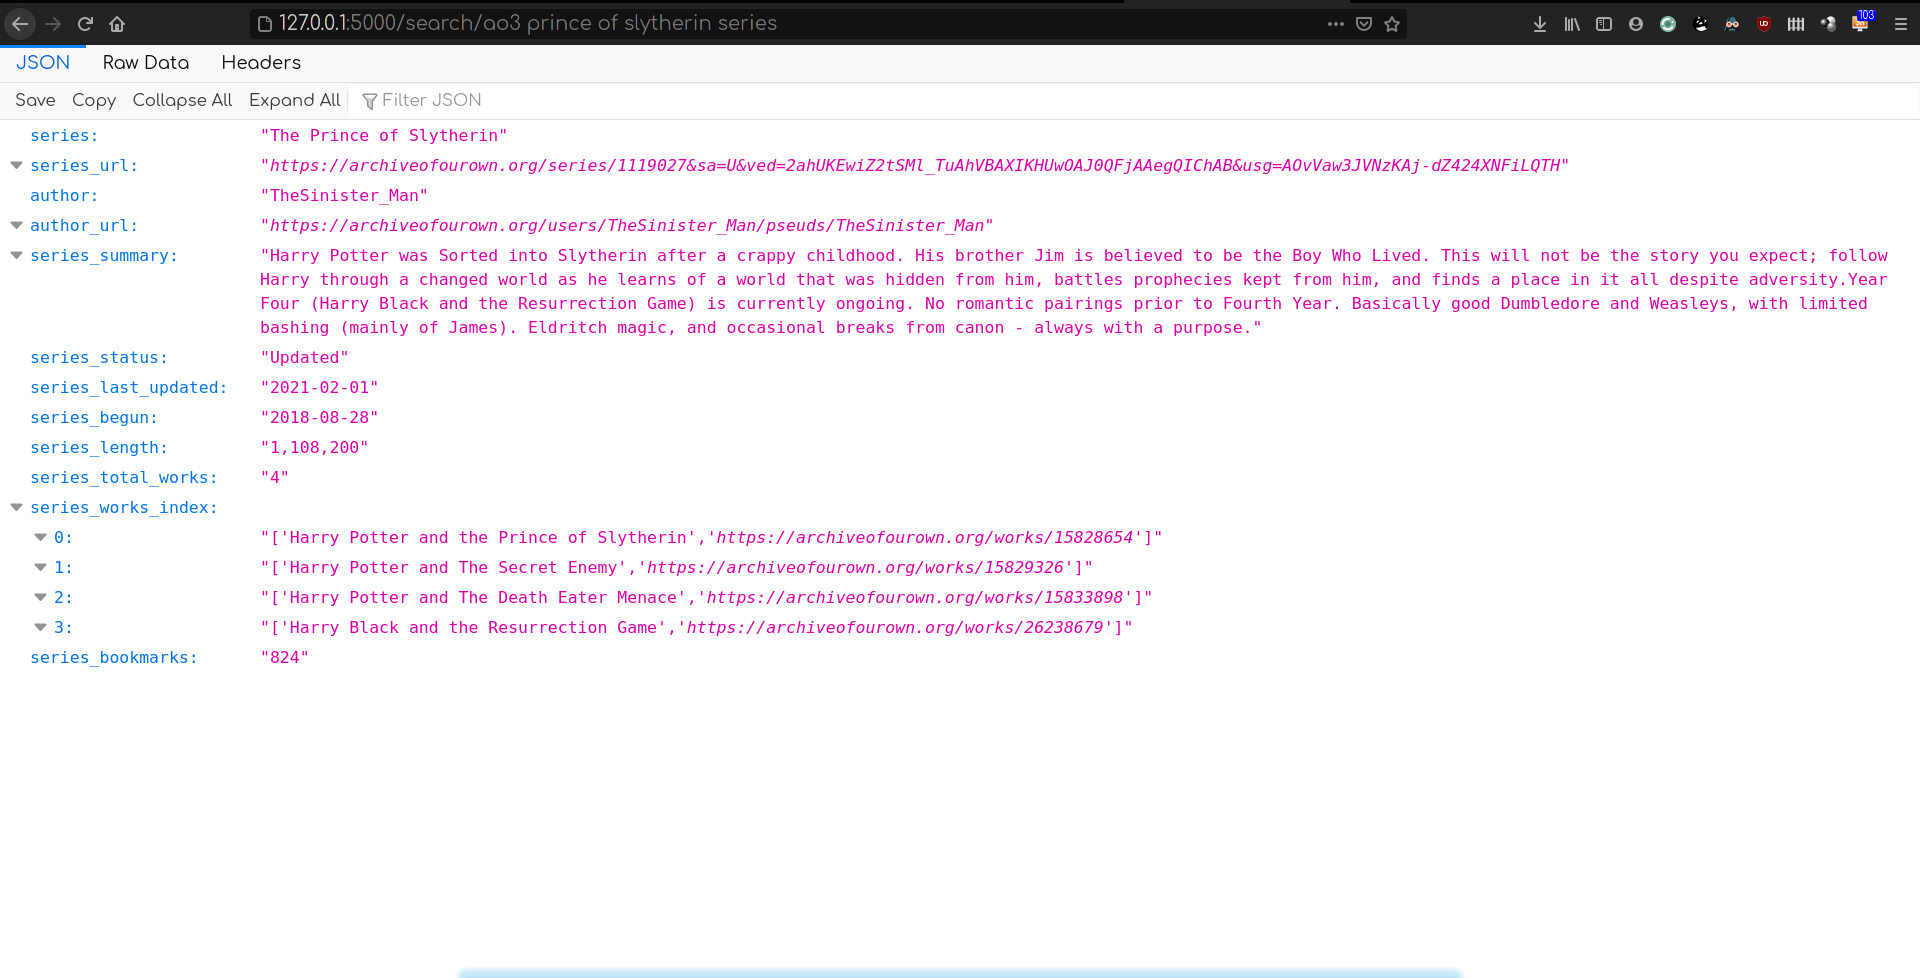
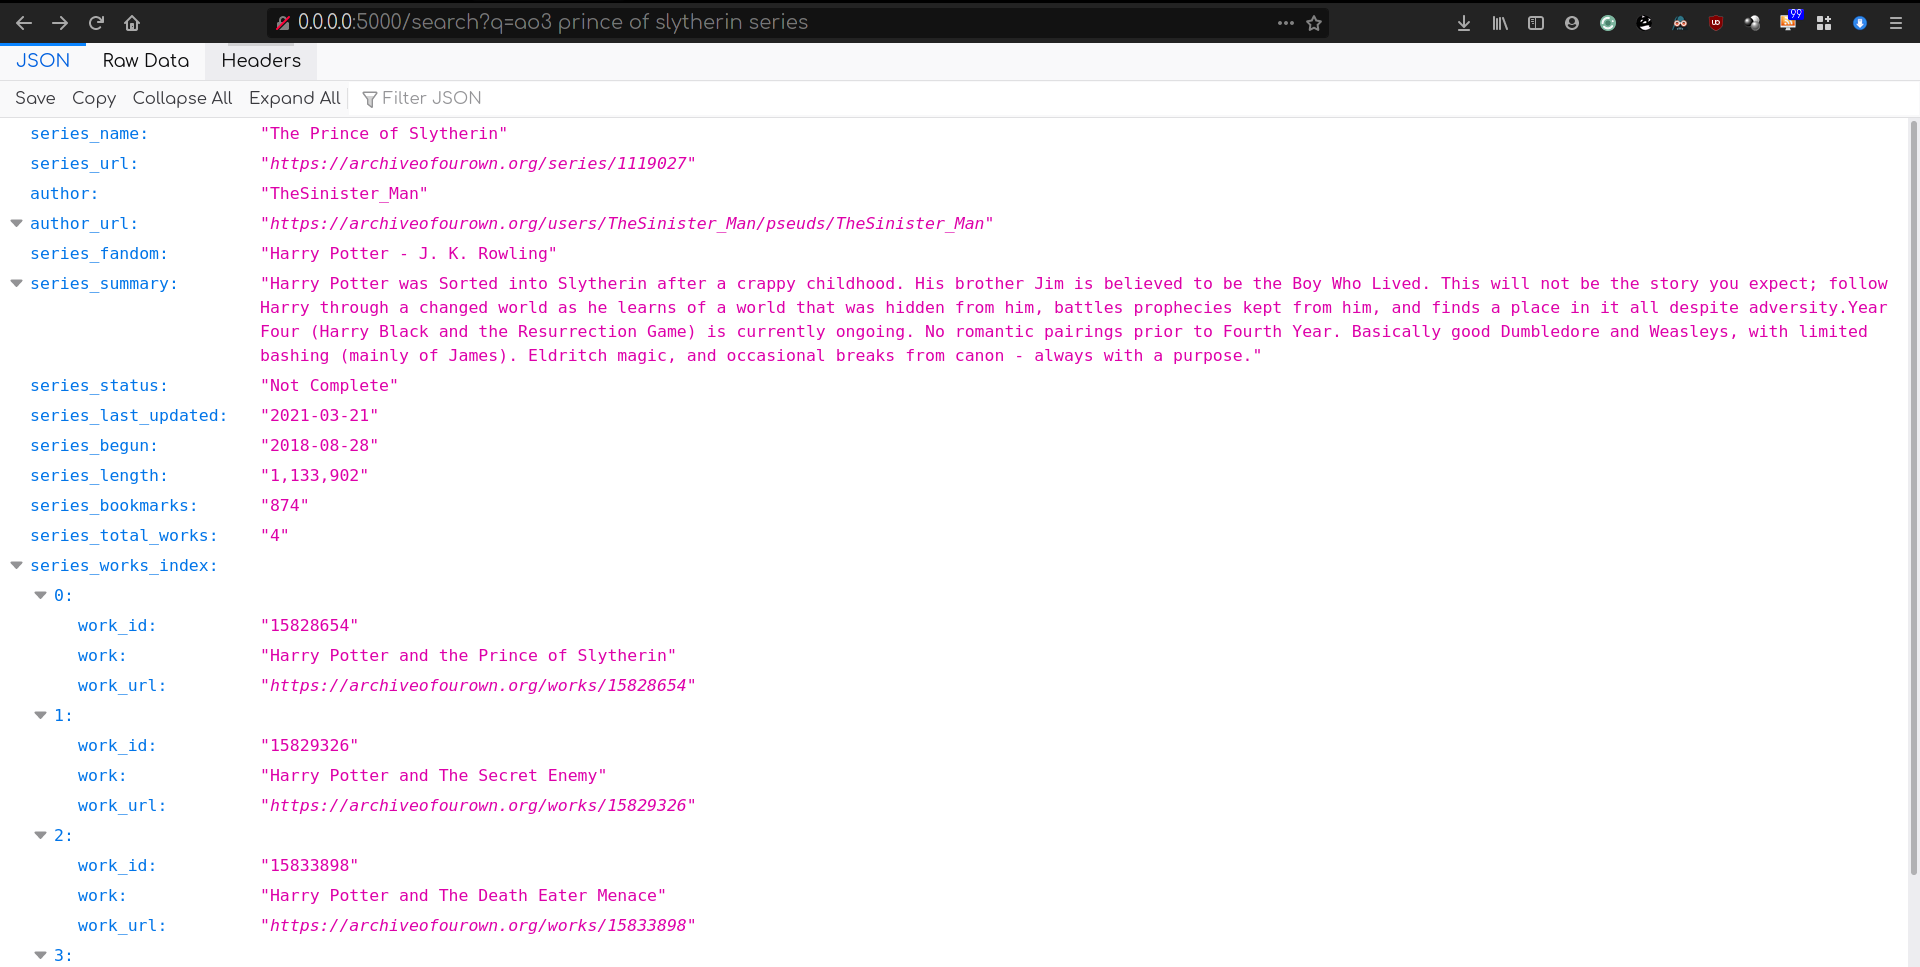
Changed API's search endpoint & added more metadata (#3)
Changed Search endpoint & added more metadata

main.py: Changed the search endpoint from /search/ to
         /search?=

find.py: Added search using url

metadata.py:
    - Added story_id & story_fandom to the ffn search
    - Added works_fandom to ao3 works search
    - Added series_fandom & series_works_index which
      includes the works_id, works_name and works_url

metadata_processing.py:
    - Added multiple authors to the author_name for ao3
      works & series

diff --git a/utils/metadata.py b/utils/metadata.py
@@ -7,11 +7,17 @@ from utils.search import get_ao3_url, get_ffn_url
 from utils.processing import ffn_process_details, ao3_convert_chapters_to_works
 from utils.metadata_processing import ao3_metadata_works, ao3_metadata_series
 
+URL_VALIDATE = r"(?:(?:https?|ftp)://)(?:\S+(?::\S*)?@)?(?:(?:[1-9]\d?|1\d\d|2[01]\d|22[0-3])(?:\.(?:1?\d{1,2}|2[0-4]\d|25[0-5])){2}(?:\.(?:[1-9]\d?|1\d\d|2[0-4]\d|25[0-4]))|(?:(?:[a-z\u00a1-\uffff0-9]+-?)*[a-z\u00a1-\uffff0-9]+)(?:\.(?:[a-z\u00a1-\uffff0-9]+-?)*[a-z\u00a1-\uffff0-9]+)*(?:\.(?:[a-z\u00a1-\uffff]{2,})))(?::\d{2,5})?(?:/[^\s]*)?"
+
 
 def ao3_metadata(query):
 
-    query = query.replace(" ", "+")
-    ao3_url = get_ao3_url(query)
+    if re.search(URL_VALIDATE, query) is None:
+        query = query.replace(" ", "+")
+        ao3_url = get_ao3_url(query)
+
+    else:  # clean the url if the query contains a url
+        ao3_url = re.search(URL_VALIDATE, query).group(0)
 
     if re.search(r"/chapters/\b", ao3_url) is not None:
 
@@ -43,7 +49,7 @@ def ao3_metadata(query):
         ao3_series_name, ao3_author_name, ao3_author_url, ao3_series_summary, \
             ao3_series_status, ao3_series_last_up, ao3_series_begun, \
             ao3_series_length, ao3_series_works_index, ao3_series_works, \
-            ao3_series_bookmarks = ao3_metadata_series(
+            ao3_series_bookmarks, ao3_series_fandom = ao3_metadata_series(
                 ao3_url)
 
         # remove everything after &sa from the url
@@ -56,14 +62,16 @@ def ao3_metadata(query):
             'series_url': ao3_url,
             'author': ao3_author_name,
             'author_url': ao3_author_url,
+            'series_fandom': ao3_series_fandom,
             'series_summary': ao3_series_summary,
             'series_status': ao3_series_status,
             'series_last_updated': ao3_series_last_up,
             'series_begun': ao3_series_begun,
             'series_length': ao3_series_length,
+            'series_bookmarks': ao3_series_bookmarks,
             'series_total_works': ao3_series_works,
-            'series_works_index': ao3_series_works_index,
-            'series_bookmarks': ao3_series_bookmarks
+            'series_works_index': ao3_series_works_index
+
         }
         return result
 
@@ -101,8 +109,16 @@ def ao3_metadata(query):
 
 def ffn_metadata(query):
 
-    query = query.replace(" ", "+")
-    ffn_url = get_ffn_url(query)
+    if re.search(URL_VALIDATE, query) is None:
+        if re.search(r"ao3\b", query):
+            embed = None
+            return embed
+        query = query.replace(" ", "+")
+        ffn_url = get_ffn_url(query)
+
+    else:  # clean the url if the query contains a url
+        ffn_url = re.search(
+            URL_VALIDATE, query).group(0)
 
     scraper = cloudscraper.CloudScraper(delay=3, browser={
         'browser': 'chrome',
@@ -129,12 +145,18 @@ def ffn_metadata(query):
             'style': 'margin-top:2px',
             'class': 'xcontrast_txt'})[0].string.strip()
 
+        ffn_story_fandom = ffn_soup.find(
+            'span', attrs={'class': 'lc-left'}).find(
+            'a', attrs={'class': 'xcontrast_txt'}).findNext('a').text
+
         ffn_story_status, ffn_story_last_up, ffn_story_published, \
             ffn_story_length, ffn_story_chapters, ffn_story_reviews, \
             ffn_story_favs, ffn_story_follows, ffn_story_rating, \
             ffn_story_lang, ffn_story_genre, ffn_story_characters = ffn_process_details(
                 ffn_soup)
 
+        ffn_story_id = re.search(r"\d+", ffn_url).group(0)
+        ffn_author_id = re.search(r"\d+", ffn_author_url).group(0)
         ffn_author_url = "https://www.fanfiction.net"+ffn_author_url
 
         # remove everything after &sa from the url
@@ -143,10 +165,13 @@ def ffn_metadata(query):
                 r"^(.*?)&", ffn_url).group(1)
 
         result = {
+            'story_id': ffn_story_id,
             'story_name': ffn_story_name,
             'story_url': ffn_url,
             'author': ffn_author_name,
+            'author_id': ffn_author_id,
             'author_url': ffn_author_url,
+            'story_fandom': ffn_story_fandom,
             'story_summary': ffn_story_summary,
             'story_rating': ffn_story_rating,
             'story_language': ffn_story_lang,

diff --git a/utils/metadata_processing.py b/utils/metadata_processing.py
@@ -147,12 +147,8 @@ def ao3_metadata_series(ao3_url):
         'div', attrs={'class': 'series-show region'}).find(
         'h2', attrs={'class': 'heading'}).contents[0]).strip()
 
-    ao3_author_name = (ao3_soup.find(
-        'div', attrs={'class': 'series-show region'}).find(
-        'a', attrs={'rel': 'author'}).contents[0]).strip()
-
-    ao3_author_url = ao3_soup.find('div', attrs={'class': 'series-show region'}).find(
-        'dt', text='Creator:').findNext('dd').find('a', href=True)['href']
+    ao3_author_name_list = ao3_soup.find(
+        'dl', attrs={'class': 'series meta group'}).find('dd').find_all('a')
 
     ao3_series_summary = (ao3_soup.find(
         'div', attrs={'class': 'series-show region'}).find(
@@ -164,12 +160,12 @@ def ao3_metadata_series(ao3_url):
             'dt', text='Complete:').findNext(
             'dd')).string.strip()
         if ao3_series_status == "No":
-            ao3_series_status = "Not Completed"
+            ao3_series_status = "Not Complete"
         elif ao3_series_status == "Yes":
             ao3_series_status = "Completed"
 
     except AttributeError:  # if story status not found
-        ao3_series_status = "Completed"
+        ao3_series_status = None
 
     try:
         ao3_series_last_up = ao3_soup.find(
@@ -200,8 +196,19 @@ def ao3_metadata_series(ao3_url):
         'dt', text='Bookmarks:').findNext(
         'dd').string.strip()
 
-    ao3_series_works_index = get_ao3_series_works_index(ao3_soup)
+    ao3_series_fandom, ao3_series_works_index = get_ao3_series_works_index(
+        ao3_soup)
+
+    ao3_author_name = []
+    for author in ao3_author_name_list:
+        ao3_author_name.append(author.string.strip())
+    ao3_author_name = ", ".join(ao3_author_name)
+
+    ao3_author_url = []
+    for author in ao3_author_name_list:
+        ao3_author_url.append(author['href'])
+    ao3_author_url = ", ".join(ao3_author_url)
 
     ao3_author_url = "https://archiveofourown.org"+ao3_author_url
 
-    return ao3_series_name, ao3_author_name, ao3_author_url, ao3_series_summary, ao3_series_status, ao3_series_last_up, ao3_series_begun, ao3_series_length, ao3_series_works_index, ao3_series_works, ao3_series_bookmarks
+    return ao3_series_name, ao3_author_name, ao3_author_url, ao3_series_summary, ao3_series_status, ao3_series_last_up, ao3_series_begun, ao3_series_length, ao3_series_works_index, ao3_series_works, ao3_series_bookmarks, ao3_series_fandom

diff --git a/find.py b/find.py
@@ -3,26 +3,43 @@ import time
 
 from utils.metadata import ao3_metadata, ffn_metadata
 
+URL_VALIDATE = r"(?:(?:https?|ftp)://)(?:\S+(?::\S*)?@)?(?:(?:[1-9]\d?|1\d\d|2[01]\d|22[0-3])(?:\.(?:1?\d{1,2}|2[0-4]\d|25[0-5])){2}(?:\.(?:[1-9]\d?|1\d\d|2[0-4]\d|25[0-4]))|(?:(?:[a-z\u00a1-\uffff0-9]+-?)*[a-z\u00a1-\uffff0-9]+)(?:\.(?:[a-z\u00a1-\uffff0-9]+-?)*[a-z\u00a1-\uffff0-9]+)*(?:\.(?:[a-z\u00a1-\uffff]{2,})))(?::\d{2,5})?(?:/[^\s]*)?"
 
-def find_fic(message):
+
+def find_fic(query):
     """ Command to search and find the fanfiction by scraping google
     """
-    msg = list(message.lower())
+    msg = list(query.lower())
 
     whitelist = ['a', 'b', 'c', 'd', 'e', 'f', 'g', 'h', 'i', 'j', 'k', 'l', 'm', 'n', 'o', 'p', 'q', 'r', 's', 't', 'u', 'é',
                  'v', 'w', 'x', 'y', 'z', '0', '1', '2', '3', '4', '5', '6', '7', '8', '9', '!', '?', ' ', '.', ';', ',', '"', "'", '`', '…', '*', '-', ':', '/', '%', '#']
 
     if all(elem in whitelist for elem in msg):  # if msg in whitelist
-        if re.search(r"^ao3\b", message.lower()) is not None:
-            msg = message.replace("ao3", "")
-            msg = message.replace("ffn", "")
+        if re.search(r"^ao3\b", query, re.IGNORECASE) is not None:
+            msg = query.replace("ao3", "")
+            msg = query.replace("ffn", "")
 
             time.sleep(2)
             result = ao3_metadata(msg)
             return result
 
-        elif re.search(r"^ffn\b", message.lower()) is not None:
-            msg = message.replace("ffn", "")
-            msg = message.replace("ao3", "")
+        elif re.search(r"^ffn\b", query, re.IGNORECASE) is not None:
+            msg = query.replace("ffn", "")
+            msg = query.replace("ao3", "")
             result = ffn_metadata(msg)
             return result
+
+        elif re.search(URL_VALIDATE, query) is not None:
+
+            url_found = (
+                re.search(URL_VALIDATE, query, re.IGNORECASE)).group(0)
+
+            if re.search(r"fanfiction.net\b",  url_found) is not None:
+                result = ffn_metadata(url_found)
+
+                return result
+
+            if re.search(r"archiveofourown.org\b", url_found) is not None:
+                result = ao3_metadata(url_found)
+
+                return result

diff --git a/utils/processing.py b/utils/processing.py
@@ -161,31 +161,47 @@ def ao3_convert_chapters_to_works(ao3_url):
 
 def get_ao3_series_works_index(ao3_soup):
     ao3_series_works_html = []
+    ao3_series_fandom_html = []
     ao3_series_works_index = []
 
     ao3_series_works_html_h4 = ao3_soup.findAll(
         'h4', attrs={'class': 'heading'})
 
+    ao3_series_works_html_h5 = ao3_soup.findAll(
+        'h5', attrs={'class': 'heading'})
+
     for i in ao3_series_works_html_h4:
         ao3_series_works_html.append(i)
-    ao3_series_works_html = ""
 
+    for i in ao3_series_works_html_h5:
+        ao3_series_fandom_html.append(i)
+
+    ao3_series_works_html = ""
     for i in ao3_series_works_html_h4:
         ao3_series_works_html += str(i)
 
-    ao3_series_works_index = {}
     soup_work = BeautifulSoup(ao3_series_works_html, 'html.parser')
-    cnt = 0
+
     for tag in soup_work.findAll('a', {'href': re.compile('/works/')}):
-        ao3_series_works_index.update(
-            {cnt:
-             [tag.text,
-              "https://archiveofourown.org" +
-              tag['href']
-              ]
-             }
+        work_id = re.search(r"\d+", tag['href']).group(0)
+
+        ao3_series_works_index.append({
+            'work_id': work_id,
+            'work': tag.text,
+            'work_url': "https://archiveofourown.org"+tag['href']
+        }
         )
 
-        cnt += 1
+    ao3_series_works_html_2 = ""
+    for i in ao3_series_works_html_h5:
+        ao3_series_works_html_2 += str(i)
 
-    return ao3_series_works_index
+    ao3_series_fandom = []
+    soup_work = BeautifulSoup(ao3_series_works_html_2, 'html.parser')
+    for tag in soup_work.findAll('a', {'class': 'tag'}):
+        ao3_series_fandom.append(tag.text)
+
+    ao3_series_fandom = set(ao3_series_fandom)
+    ao3_series_fandom = ", ".join(ao3_series_fandom)
+
+    return ao3_series_fandom, ao3_series_works_index

diff --git a/main.py b/main.py
@@ -17,21 +17,22 @@ app.add_middleware(
 
 @app.get("/")
 def index():
-    return {'API': 'Fanfiction Finder', 'Author': 'arzkar'}
+    return {
+        'API': 'Fanfiction Finder',
+        'Author': 'arzkar',
+        'Search Examples': [
+            "['For ao3 works searching:','https://fanfictionapi.repl.co/search?q=ao3 Harry Potter and the Prince of Slytherin']",
+            "['For ao3 series searching:','https://fanfictionapi.repl.co/search?q=ao3 Harry Potter and the Prince of Slytherin series']",
+            "['For ffn story searching','https://fanfictionapi.repl.co/search?q=ffn cadmean victory']",
+            "['To search using url','https://fanfictionapi.repl.co/search?q=https://www.fanfiction.net/s/11446957/1/A-Cadmean-Victory']"
+        ]
+
+    }
 
 
-@app.get("/search/")
-def search():
-    return {'Search Examples': [
-        "['For ao3 works searching:','https://fanfictionapi.repl.co/search/ao3 Harry Potter and the Prince of Slytherin']",
-        "['For ao3 series searching:','https://fanfictionapi.repl.co/search/ao3 Harry Potter and the Prince of Slytherin series']",
-        "['For ffn story searching','https://fanfictionapi.repl.co/search/ffn cadmean victory']"
-    ]}
-
-
-@app.get("/search/{fic_name}")
-def get_fic(fic_name: str):
-    res = find_fic(fic_name)
+@app.get("/search")
+def get_fic(q: str):
+    res = find_fic(q)
     return res
 
 

diff --git a/utils/search.py b/utils/search.py
@@ -2,6 +2,8 @@ import requests
 from bs4 import BeautifulSoup
 import re
 
+URL_VALIDATE = r"(?:(?:https?|ftp)://)(?:\S+(?::\S*)?@)?(?:(?:[1-9]\d?|1\d\d|2[01]\d|22[0-3])(?:\.(?:1?\d{1,2}|2[0-4]\d|25[0-5])){2}(?:\.(?:[1-9]\d?|1\d\d|2[0-4]\d|25[0-4]))|(?:(?:[a-z\u00a1-\uffff0-9]+-?)*[a-z\u00a1-\uffff0-9]+)(?:\.(?:[a-z\u00a1-\uffff0-9]+-?)*[a-z\u00a1-\uffff0-9]+)*(?:\.(?:[a-z\u00a1-\uffff]{2,})))(?::\d{2,5})?(?:/[^\s]*)?"
+
 
 def get_ao3_url(query):
     ao3_list = []
@@ -32,8 +34,7 @@ def get_ao3_url(query):
         return None
 
     # extract the https url from the the string since it contains /url?q=
-    ao3_url = re.search(
-        r"https?:\/\/(www/.)?[-a-zA-Z0-9@:%._\+~#=]{1,256}\.[a-zA-Z0-9()]{1,6}\b[-a-zA-Z0-9()@:%_\+.~#?&//=]*", ao3_list[0])
+    ao3_url = re.search(URL_VALIDATE, ao3_list[0])
 
     return ao3_url.group(0)
 
@@ -60,7 +61,6 @@ def get_ffn_url(query):
     if not ffn_list:
         return
 
-    ffn_url = re.search(
-        r"https?:\/\/(www/.)?[-a-zA-Z0-9@:%._\+~#=]{1,256}\.[a-zA-Z0-9()]{1,6}\b[-a-zA-Z0-9()@:%_\+.~#?&//=]*", ffn_list[0])
+    ffn_url = re.search(URL_VALIDATE, ffn_list[0])
 
     return ffn_url.group(0)

diff --git a/README.md b/README.md
@@ -5,22 +5,33 @@
 This API can scrape both [ffnet](https://www.fanfiction.net/) and [ao3](https://archiveofourown.org/) fanfiction metadata. Currently it can search for ao3 works, series and ffnet stories. <br>
 
 # API Usage
+
 To search using the API, you need to host the API in your server. I will use localhost for the examples below.<br>
 
 ## For `ao3 works` searching-
-`https://127.0.0.1:8000/search/ao3 Harry Potter and the Prince of Slytherin`
+
+`https://127.0.0.1:5000/search?=ao3 Prince of Slytherin`
 <br>
 ![](https://raw.githubusercontent.com/arzkar/Fanfiction-Finder-API/main/img/ao3_works.png)
 <br>
+
 ## For `ao3 series` searching-
-`https://127.0.0.1:8000/search/ao3 Harry Potter and the Prince of Slytherin series`
+
+`https://127.0.0.1:5000/search?=ao3 Prince of Slytherin series`
 <br>
 ![](https://raw.githubusercontent.com/arzkar/Fanfiction-Finder-API/main/img/ao3_series.png)
 <br>
 
 ## For `ffn story` searching-
-`https://127.0.0.1:8000/search/ffn cadmean victory`
+
+`https://127.0.0.1:5000/search?=ffn cadmean victory`
 <br>
 ![](https://raw.githubusercontent.com/arzkar/Fanfiction-Finder-API/main/img/ffn_story.png)
 <br>
 
+## For searching using url-
+
+`https://127.0.0.1:5000/search?=https://www.fanfiction.net/s/11446957/1/A-Cadmean-Victory`
+<br>
+![](https://raw.githubusercontent.com/arzkar/Fanfiction-Finder-API/main/img/url_search.png)
+<br>
